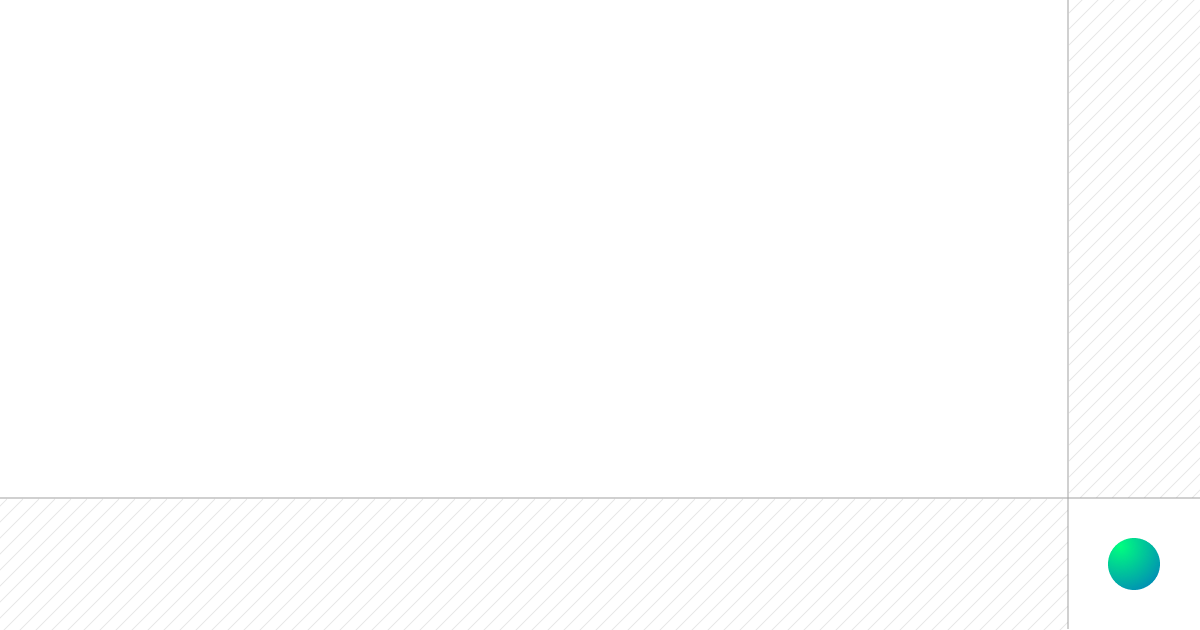
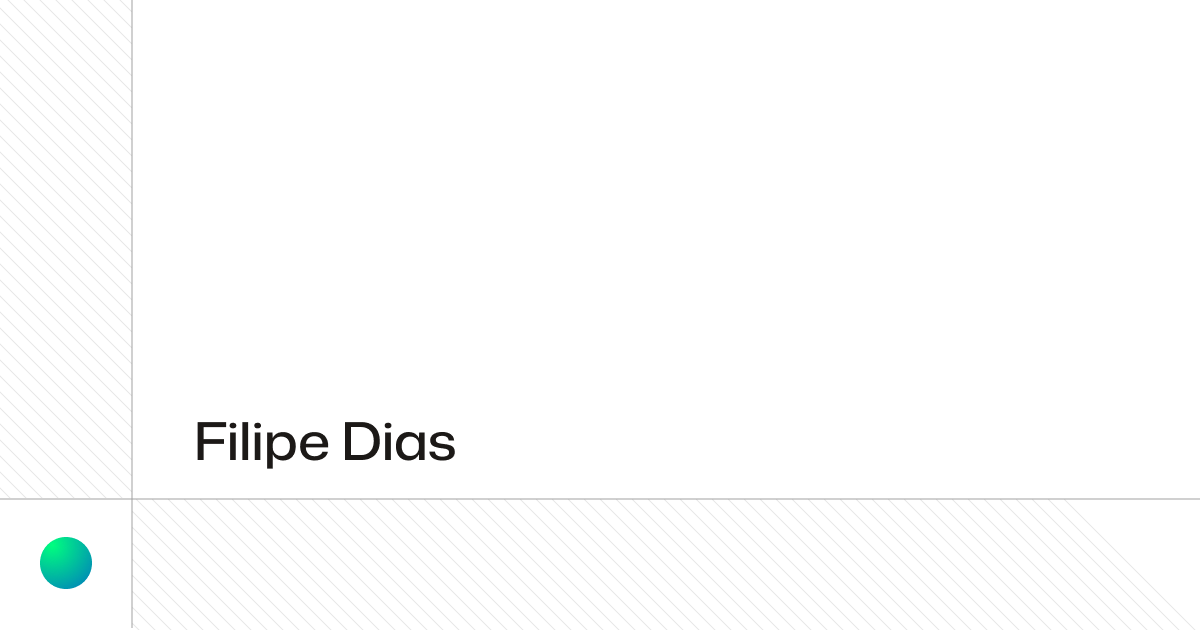
feat: update the og image

diff --git a/layouts/partials/opengraph.html b/layouts/partials/opengraph.html
@@ -5,16 +5,14 @@
 
 {{ if .IsPage }}
   {{ $base := resources.Get "images/og.png" }}
-  {{ $textArea := resources.Get "images/og-text-area.png" }}
   {{ $font := resources.Get "/fonts/mona-sans_semi-expanded-medium.ttf"}}
-  {{ $overlay := $textArea.Filter (images.Text .Page.Title (dict
-    "color" "#1C1917" 
+  {{ $img := $base.Filter (images.Text .Page.Title (dict
+    "color" "#171717"
     "size" 72
-    "x" 80
+    "x" 194
     "y" 100
     "font" $font
   ))}}
-  {{ $img := $base.Filter (images.Overlay $overlay 0 0)}}
   {{ with resources.Copy (path.Join .Page.RelPermalink "og.png") $img }}
     <meta property="og:image" content="{{.Permalink}}">
     <meta property="og:image:width" content="{{.Width}}" />
